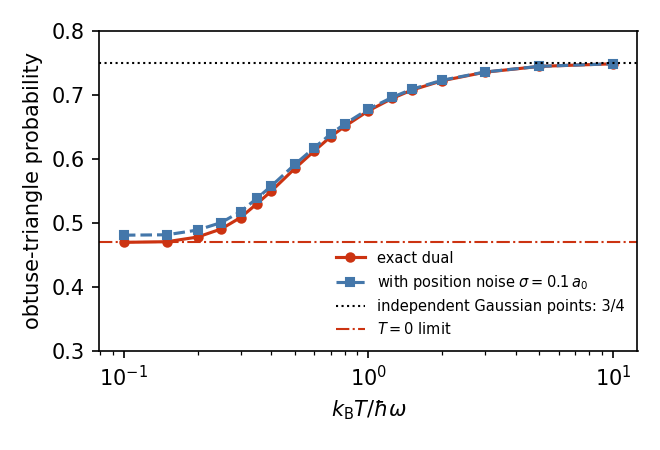
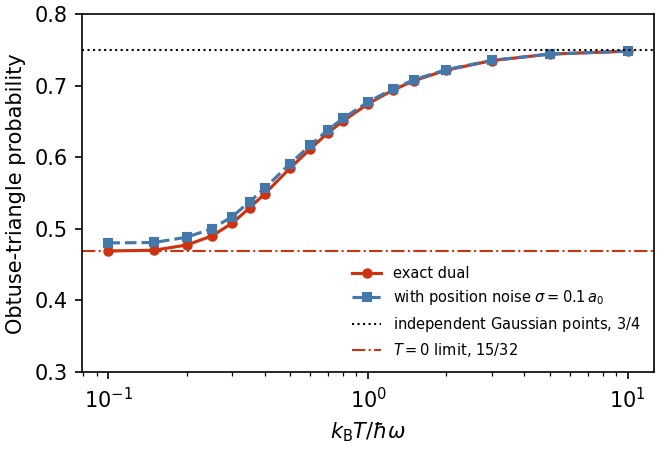
Match ensemble diagnostics and figure guides to the revised manuscript

Changed region(s): [[0.0, 0.0, 1.0, 0.9956], [0.9697, 0.0311, 1.0, 0.0622]]

diff --git a/verification/revision_followup/n3_obtuse.py b/verification/revision_followup/n3_obtuse.py
@@ -68,13 +68,15 @@ for T in temps:
     print(f"T={row['T']!s:5} P_obtuse={row['P_obtuse']:.5f} +- {row['P_obtuse_se']:.5f}  noise0.1 -> {row['P_obtuse_noise0.1']:.5f}  ESS={row['ess']:.3g}", flush=True)
 json.dump(rows, open(HERE / "n3_obtuse.json", "w"), indent=1)
 
-fig, ax = plt.subplots(figsize=(4.4, 3.0))
+plt.rcParams.update({"font.size": 10, "pdf.fonttype": 42})
+fig, ax = plt.subplots(figsize=(4.4, 3.0), layout="constrained")
 fin = [r for r in rows if r["T"] not in ("0", "inf")]
 ax.plot([r["T"] for r in fin], [r["P_obtuse"] for r in fin], "o-", color="#CC3311", ms=4, label="exact dual")
 ax.plot([r["T"] for r in fin], [r["P_obtuse_noise0.1"] for r in fin], "s--", color="#4477AA", ms=3.5, label=r"with position noise $\sigma=0.1\,a_0$")
-ax.axhline(0.75, color="k", ls=":", lw=1, label="independent Gaussian points: 3/4")
-ax.axhline(rows[0]["P_obtuse"], color="#CC3311", ls="-.", lw=1, label=r"$T=0$ limit")
-ax.set_xscale("log"); ax.set_xlabel(r"$k_{\rm B}T/\hbar\omega$"); ax.set_ylabel("obtuse-triangle probability")
-ax.set_ylim(0.3, 0.8); ax.legend(fontsize=7, frameon=False, loc="lower right"); fig.tight_layout()
+ax.axhline(3/4, color="black", ls=":", lw=1, label=r"independent Gaussian points, $3/4$")
+ax.axhline(15/32, color="#CC3311", ls="-.", lw=1, label=r"$T=0$ limit, $15/32$")
+ax.set(xscale="log", xlabel=r"$k_{\rm B}T/\hbar\omega$", ylabel="Obtuse-triangle probability",
+       ylim=(0.3, 0.8))
+ax.legend(fontsize=7, frameon=False, loc="lower right")
 fig.savefig(HERE / "n3_obtuse.png", dpi=150); fig.savefig(HERE / "n3_obtuse.pdf")
 print("done")

diff --git a/mc_ensemble/make_si_figs.py b/mc_ensemble/make_si_figs.py
@@ -59,8 +59,8 @@ ax[0].errorbar(T55, P_pool, yerr=err, color="#CC0000", lw=1.4, marker="o",
 ax[0].plot(T6, P6, "s-", color="#2255CC", ms=3.5, lw=1.2, label=r"$N=6$")
 ax[0].axhline(0.5, ls="--", lw=0.8, c="gray")
 ax[0].axvline(Tc_pool, ls=":", lw=1.0, c="k")
-ax[0].annotate(rf"$k_{{\rm B}}T_\times/\hbar\omega={Tc_pool:.2f}$",
-               xy=(Tc_pool, 0.52), xytext=(0.95, 0.62), fontsize=9,
+ax[0].annotate(rf"$k_{{\rm B}}T_\times/\hbar\omega={Tc_pool:.3f}$",
+               xy=(Tc_pool, 0.52), xytext=(0.95, 0.585), fontsize=9,
                arrowprops=dict(arrowstyle="->", lw=0.7))
 ax[0].set_xlabel(r"$k_{\rm B}T/\hbar\omega$")
 ax[0].set_ylabel(r"$P(\mathrm{strongest\ bond\ attractive})$")

diff --git a/phase_diagram.py b/phase_diagram.py
@@ -1,10 +1,9 @@
 """
-Phase diagram: ATT vs REP dominance in (N, varphi) space.
+Phase diagram: ATT vs REP dominance versus particle number and temperature.
 For each (N, beta), minimize V_total and check whether the
 globally strongest pairwise force is attractive or repulsive.
 
-X-axis is varphi = beta*hbar*omega (so low T sits on the right);
-this expands the melting-relevant region compared to the 1/T axis.
+The horizontal axis is k_B T/(hbar omega) = 1/varphi, with low temperature on the left.
 
 Caches results to phase_diagram_cache.npz so the heavy compute
 only runs once.

diff --git a/mc_ensemble/README.md b/mc_ensemble/README.md
@@ -22,14 +22,21 @@ ladder with the temperature-dependent swap rule described in Methods.
 
 ## Reproduce
 
+From this directory, run the validation and analyze the archived chains:
+
     python mc_ensemble.py validate --out out/validate.npz
-    python mc_ensemble.py run --N 55 --temps "0.40,...,2.00" --burn 5000 --sweeps 30000 \
-        --thin 10 --init mixed --seed 1001 --run-id N55-A --out out/N55_runA.npz
     python mc_ensemble.py analyze --pattern "out/N55_run*.npz" --out out/N55
     python make_si_figs.py
 
-Headline results: the probability that the strongest canonical bond of a single sampled
-configuration is attractive crosses one half at k_B T_x / (hbar omega) = 0.66(1) for N=55
-(per-run 0.660/0.660/0.666), stays below 0.07 for N=6 at all temperatures, and the radial
-marginals remain unimodal and nearly temperature-independent across the structural level
-crossings (mode-level transitions).
+To generate an additional N=55 chain on the same 25-temperature grid:
+
+    python mc_ensemble.py run --N 55 --temps "0.40,0.44,0.48,0.52,0.55,0.58,0.60,0.62,0.64,0.67,0.70,0.75,0.80,0.90,1.00,1.15,1.30,1.40,1.45,1.50,1.55,1.60,1.70,1.85,2.00" --burn 5000 --sweeps 30000 --thin 10 --init mixed --seed 1001 --run-id N55-example --out out/example_N55.npz
+
+For N=55, the pooled probability that a shot has an attractive strongest canonical
+bond crosses one half at \(k_{\rm B}T_\times/(\hbar\omega)=0.661\). The three long
+runs give 0.6597, 0.6595 and 0.6660, with an rms spread of 0.003 about their mean.
+The unperturbed pooled crossing of 0.639 in Table S4 comes from three separate
+[robustness runs](../verification/revision_followup/README.md).
+For N=6 the probability stays below 0.07 at all sampled temperatures. The radial
+marginals remain unimodal and nearly temperature-independent across the structural
+level crossings.

diff --git a/README.md b/README.md
@@ -30,8 +30,12 @@ The `mc_ensemble/` directory contains the thermal-ensemble Monte Carlo supportin
 Methods ("Ensemble Monte Carlo") and Supplementary Note 8: a validated
 Metropolis + replica-exchange sampler of the exact positive-weight dual, the raw chains
 for the N=55 production runs and the N=6 null control, and the scripts generating the
-SI figures (ensemble force crossover at k_B T_x/hbar-omega = 0.66(1); unimodal radial
-marginals across the structural level crossings). See `mc_ensemble/README.md`.
+SI figures. The three long N=55 runs give a pooled crossover at
+\(k_{\rm B}T_\times/(\hbar\omega)=0.661\), with a run-to-run rms spread of 0.003.
+The radial marginals remain unimodal across the structural level crossings.
+The separate robustness runs have an unperturbed pooled crossover of 0.639
+(Table S4). See [ensemble runs](mc_ensemble/README.md) and
+[robustness checks](verification/revision_followup/README.md).
 
 ## Supplementary Note 7 checks
 
